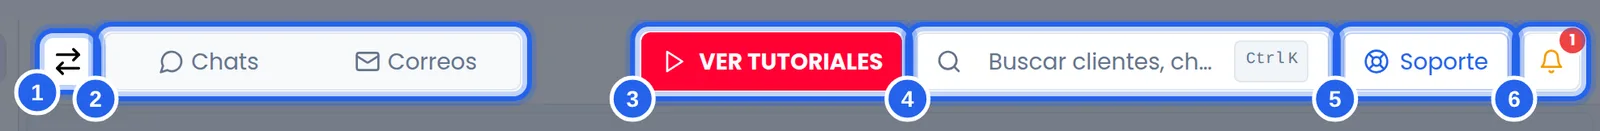
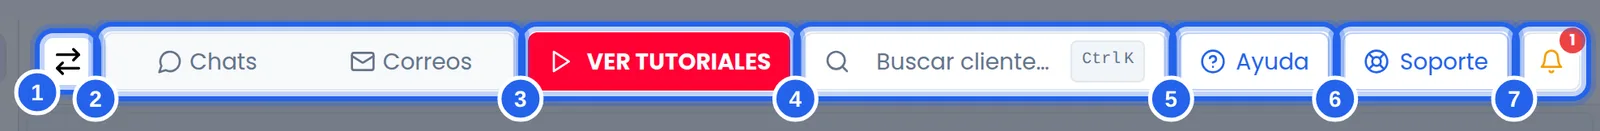
Centro de ayuda: la guía de Mis datos también, con su barra de siete partes
- capturar-guia-mis-datos lee las siete partes de la barra.
- Foto de la barra de Mis datos rehecha (SOLO=mis-datos) y apuntada.
- El banco del centro de ayuda pinta la barra con Chats y Correos en el
  menú, que es lo que hace falta para medir el selector.

Claude-Session: https://claude.ai/code/session_01GDG8SZy21fhGM3Sce4YL6G

diff --git a/CLAUDE.md b/CLAUDE.md
@@ -23169,7 +23169,7 @@ Cinco cosas que hay que mantener:
 5. **La barra de las guías se numera con SIETE partes**
    (`PARTES_DE_LA_BARRA_DE_ARRIBA`, con «Centro de ayuda» entre el buscador y
    «Soporte», y `lasPartesDeArriba` del taller en el mismo orden). Cuando la
-   barra gana o pierde un botón, la foto de las quince guías se rehace SOLA,
+   barra gana o pierde un botón, la foto de TODAS las guías se rehace SOLA,
    sin regenerar ninguna guía entera:
    `npm run build && scripts/regenerar-barra-de-las-guias.sh && npm run build`
    (`SOLO=leads,catalogo` para unas). La foto se toma con `laFotoDeLaBarra`
